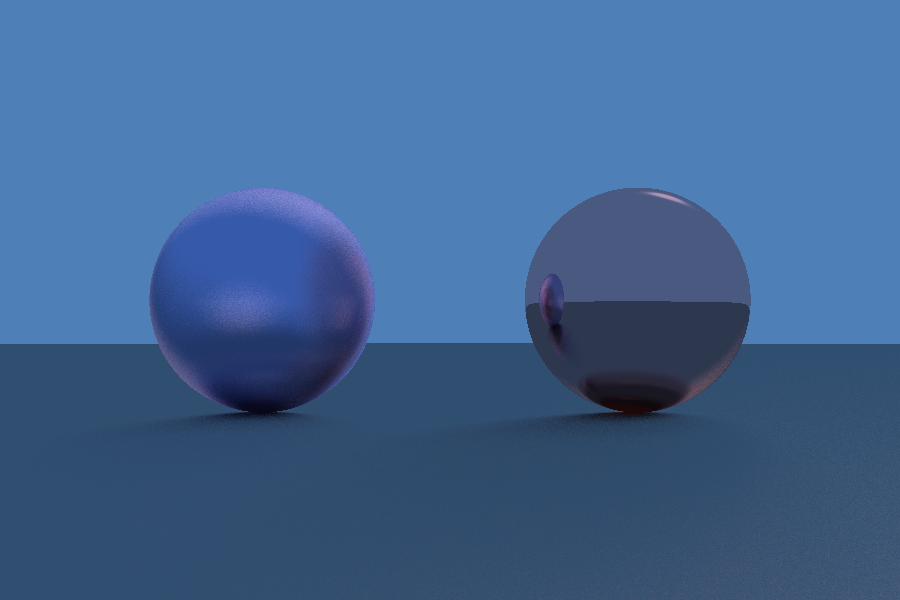
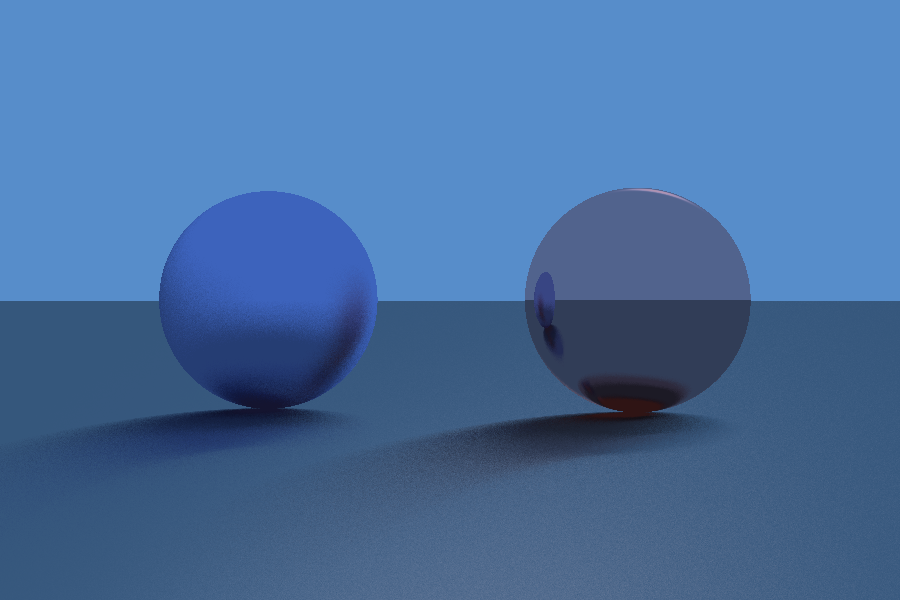
Implemented bloom material

diff --git a/main.py b/main.py
@@ -6,20 +6,20 @@ from RTEngine import Material
 from RTEngine.objects import Sphere, Cube
 
 if __name__ == "__main__":
-    scale = 2
+    scale = 3
 
     camera_pos = np.array([0, 0, 5])
 
     lights = [
-        np.array([1, 1, -3])
+        np.array([0.35, 0.9, -2])
     ]
 
     objects = [
-        Cube(np.array([0.5, 0, -1]), 0.3, Material([0.8, 0.6, 0.6], 0.5)),
-        Sphere(np.array([-0.5, 0, -1.2]), 0.3, Material([0.6, 0.6, 0.9], 0.05)),
-        Sphere(np.array([0, -1000, 0]), 1000 - 0.3, Material([0.5, 0.5, 0.5], 0.05))
+        Sphere(np.array([0.5, 0, -1]), 0.3, Material([0.9, 0.6, 0.6], 0)),
+        Sphere(np.array([-0.5, 0, -1]), 0.3, Material([0.6, 0.6, 0.9], 0.7)),
+        Cube(np.array([0, -1000, -1]), 1000 - 0.3, Material([0.5, 0.5, 0.5], 0.3))
     ]
 
     rte = RayTracingEngine(300 * scale, 200 * scale, 6, camera_pos, objects, lights)
 
-    plt.imsave('image.png', rte.render(sampling=4))
+    plt.imsave('image.png', rte.render(sampling=32))

diff --git a/RTEngine/material.py b/RTEngine/material.py
@@ -4,7 +4,7 @@ __all__ = ['Material']
 
 
 class Material:
-    def __init__(self, color: list | ndarray, matt: int | float = 0, refl: int | float = 1):
+    def __init__(self, color: list | ndarray, matt: int | float = 0, refl: int | float = 1, bloom: bool = False):
         assert isinstance(color, list) or isinstance(color, ndarray)
         assert isinstance(matt, int | float)
         assert isinstance(refl, int | float)
@@ -12,3 +12,5 @@ class Material:
         self.color = array(color) if isinstance(color, list) else color
         self.matt = matt
         self.refl = refl
+
+        self.bloom = bloom

diff --git a/RTEngine/objects.py b/RTEngine/objects.py
@@ -14,15 +14,15 @@ class Object(ABC):
         pass
 
     @abstractmethod
-    def get_normal(self, intersection):
+    def get_normal(self, intersection) -> np.ndarray:
         pass
 
     @abstractmethod
-    def get_pos(self):
+    def get_pos(self) -> tuple:
         pass
 
     @abstractmethod
-    def get_material(self):
+    def get_material(self) -> Material:
         pass
 
 

diff --git a/RTEngine/ray_tracing_engine.py b/RTEngine/ray_tracing_engine.py
@@ -67,6 +67,9 @@ class RayTracingEngine:
         if nearest_object is None:
             return color * self.get_sky(ray_direction)
 
+        if nearest_object.get_material().bloom:
+            return color * nearest_object.get_material().color
+
         intersection = ray_origin + min_distance * ray_direction
         normal = nearest_object.get_normal(intersection)
 

diff --git a/readme.md b/readme.md
@@ -5,6 +5,7 @@ It's a simple ray tracing engine on python designed for rendering scenes. The co
 ## Render example
 ![render example](assets/ray_tracing_example_1.png)
 ![render example](assets/ray_tracing_example_2.png)
+![render example](assets/ray_tracing_example_3.png)
 
 ## Installation and Launch
 The project supports python 3.10.0 and higher. <br/>
@@ -21,21 +22,24 @@ import matplotlib.pyplot as plt
 
 from RTEngine import RayTracingEngine
 from RTEngine import Material
-from RTEngine.objects import Sphere
+from RTEngine.objects import Sphere, Cube
 
 if __name__ == "__main__":
+    scale = 3
+
     camera_pos = np.array([0, 0, 5])
+
     lights = [
-        np.array([0.3, 0.75, -1])
+        np.array([0.35, 0.9, -2])
     ]
+
     objects = [
         Sphere(np.array([0.5, 0, -1]), 0.3, Material([0.9, 0.6, 0.6], 0)),
         Sphere(np.array([-0.5, 0, -1]), 0.3, Material([0.6, 0.6, 0.9], 0.7)),
-        Sphere(np.array([0, -1000, -1]), 1000 - 0.3, Material([0.5, 0.5, 0.5], 0.3))
+        Cube(np.array([0, -1000, -1]), 1000 - 0.3, Material([0.5, 0.5, 0.5], 0.3))
     ]
 
-    rte = RayTracingEngine(300 * 3, 200 * 3, 8, camera_pos, objects, lights)
+    rte = RayTracingEngine(300 * scale, 200 * scale, 6, camera_pos, objects, lights)
 
     plt.imsave('image.png', rte.render(sampling=8))
-
 ```
